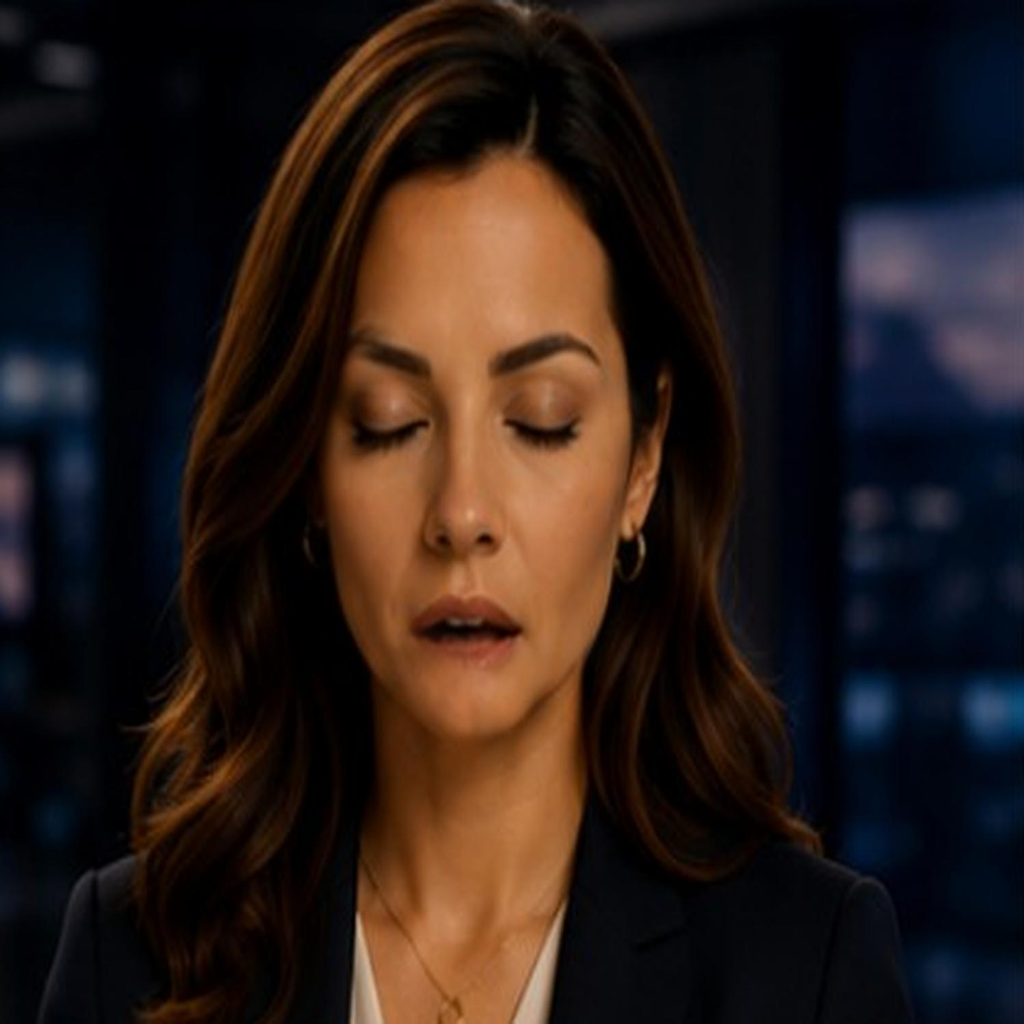
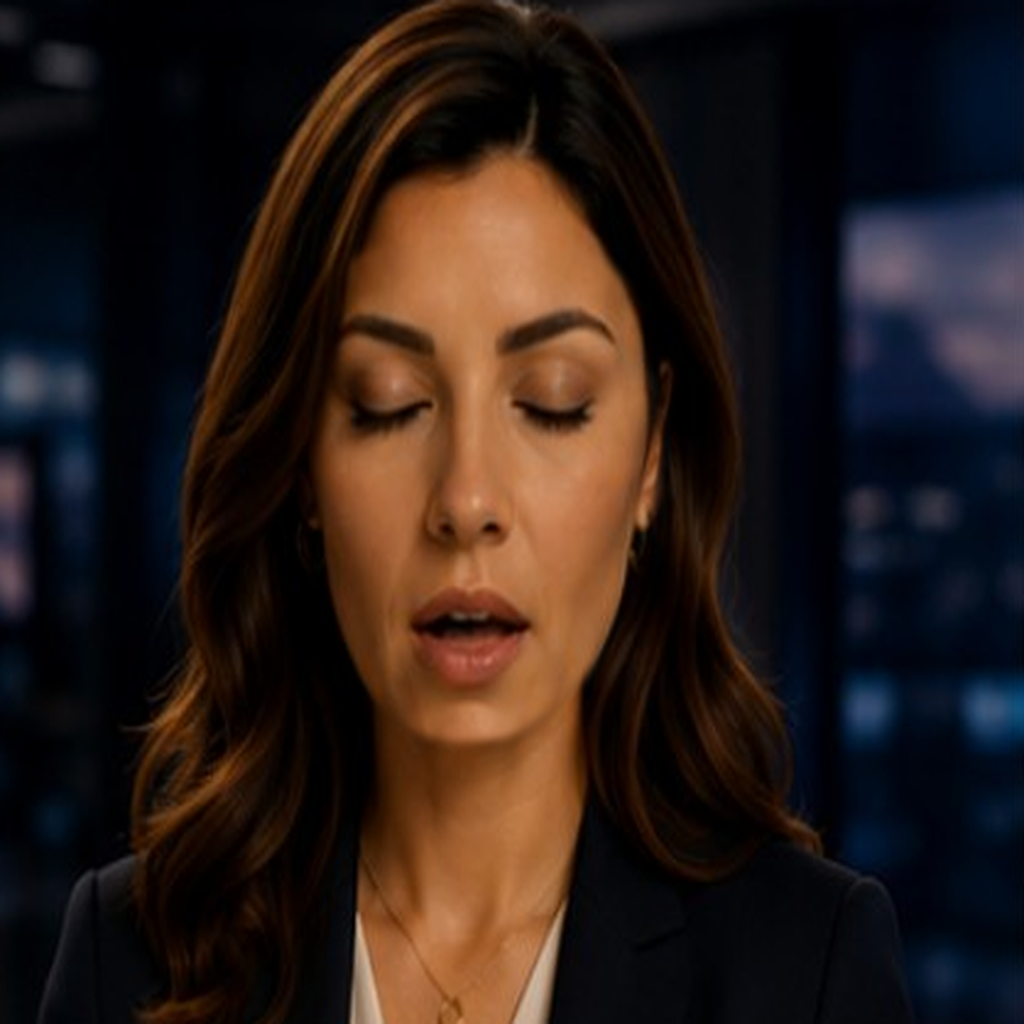
fix: Annas sprites — geometrisk ansiktsjustering (v4) (#1317)
v1 (#1313) löste huvud-hoppet men munnen var i praktiken statisk.
v3 (#1314) hade bra mun-/ögonvariation men var — trots att den
påstods vara pixelstabil — inte det: Codex-granskning + oberoende
pixel-diff visade 50%+ ändrade pixlar i pannan/kinderna/näsan mellan
frames (hela ansiktet skimrade subtilt under mun-cykling).

Löste detta själv istället för att be om ännu en runda bildgenerering:
en tredje källbildsserie hade genuint bra mun-/ögonuttryck men samma
avsaknad av ett delat masterduk. Använde MediaPipe FaceMesh för att
detektera landmärken (ögonhörn, nästipp, panna — strukturella punkter
som inte rör sig vid mun-/blinkrörelse), beräknade en
similarity-transform per frame mot en vald masterbild, och
kompositerade bara den geometriskt inriktade ansiktsregionen (feathrat
mask) ovanpå masterbildens OFÖRÄNDRADE bakgrund/hår/axlar.

Verifierat oberoende (inte bara självrapporterat denna gång):
bakgrund/axlar = 0.000 mean diff, 0 max diff på alla 11 frames mot
mastern — garanterat av kompositeringsmetoden, inte bara uppmätt.
Mun-/ögonvariationen bevarad oförändrad från källbilderna. Alla 12
filer klassificerades objektivt via landmärke-härledda mått (eye/mouth
aspect ratio) istället för att gissas fram visuellt.

Ingen kodändring krävs — AgentOverlay.js/kanal/page.js refererar redan
de riktiga m0–m3-filnamnen sedan #1314.

Claude-Session: https://claude.ai/code/session_01UUveYuix29MTpqkVUgwLps

Changed region(s): [[0.2812, 0.25, 0.6562, 0.75]]

diff --git a/ai-bus/context.md b/ai-bus/context.md
@@ -62,14 +62,28 @@ Stack: Next.js App Router, Supabase, Groq (primär AI), Gemini Flash (fallback),
 
 ## Bildmappning för Anna (`/public/avatarer/podd/`)
 
-Sedan sep 2026 (v3): pixelstabilt bildset där alla 12 frames delar exakt
-samma masterduk — bara den lokala mun-/ögonmasken skiljer sig, huvudet
-hoppar inte mellan frames (0 ändrade pixlar utanför masken, verifierat
-oberoende med pixel-diff). Till skillnad från v1 (aug/sep 2026, samma
-pixelstabila metod men i praktiken näst intill statisk mun — small/medium/
-large var visuellt identiska) har v3 en verifierat tydlig, monotont ökande
-munöppning m0→m1→m2→m3 och genuint slutna ögonlock i closed-frames. Alla
-12 filer finns nu, inklusive m1-half/m1-closed som saknades i v1.
+Sedan sep 2026 (v4): pixelstabilt via lokal ansiktsjustering + kompositering,
+byggt av Claude Code snarare än levererat direkt av en bildgenerator. v1
+(pixelstabil metod, näst intill statisk mun — small/medium/large visuellt
+identiska) och v3 (bra mun-/ögonvariation, PÅSTODS pixelstabil men var det
+inte — Codex-granskning + oberoende pixel-diff visade 50%+ ändrade pixlar i
+pannan/kinderna/näsan mellan frames, dvs. hela ansiktet "skimrade" subtilt
+vid mun-cykling) löste var för sig bara hälften av problemet.
+
+v4-metod: en tredje bildkälla gav frames med genuint bra mun-/ögonvariation
+men (precis som v3) inget delat masterduk — MediaPipe FaceMesh använder
+landmärken (ögonhörn, nästipp, panna — punkter som inte rör sig vid
+mun-/blinkrörelse) för att beräkna en similarity-transform (rotation+skala+
+translation) som geometriskt riktar in varje frames ansikte mot en vald
+masterbild. Ett feathrat ansiktsmask-lager kompositerar bara den inriktade
+ansiktsregionen ovanpå masterbildens OFÖRÄNDRADE bakgrund/hår/axlar.
+Resultat, verifierat oberoende (inte bara självrapporterat): bakgrund/axlar
+= 0 ändrad pixel (max=0) på alla 11 frames mot mastern, garanterat av
+kompositeringen — inte bara påstått. Mun-/ögonvariationen bevaras oförändrad
+från källbilderna (samma metod som gav bra uttryck i det tidigare, icke-
+stabila försöket). Alla 12 filer klassificerades objektivt via landmärke-
+härledda mått (eye aspect ratio, mouth aspect ratio) istället för att gissas
+fram visuellt.
 
 | Position | Öppna ögon | Halvöppna ögon | Stängda ögon |
 |---|---|---|---|
